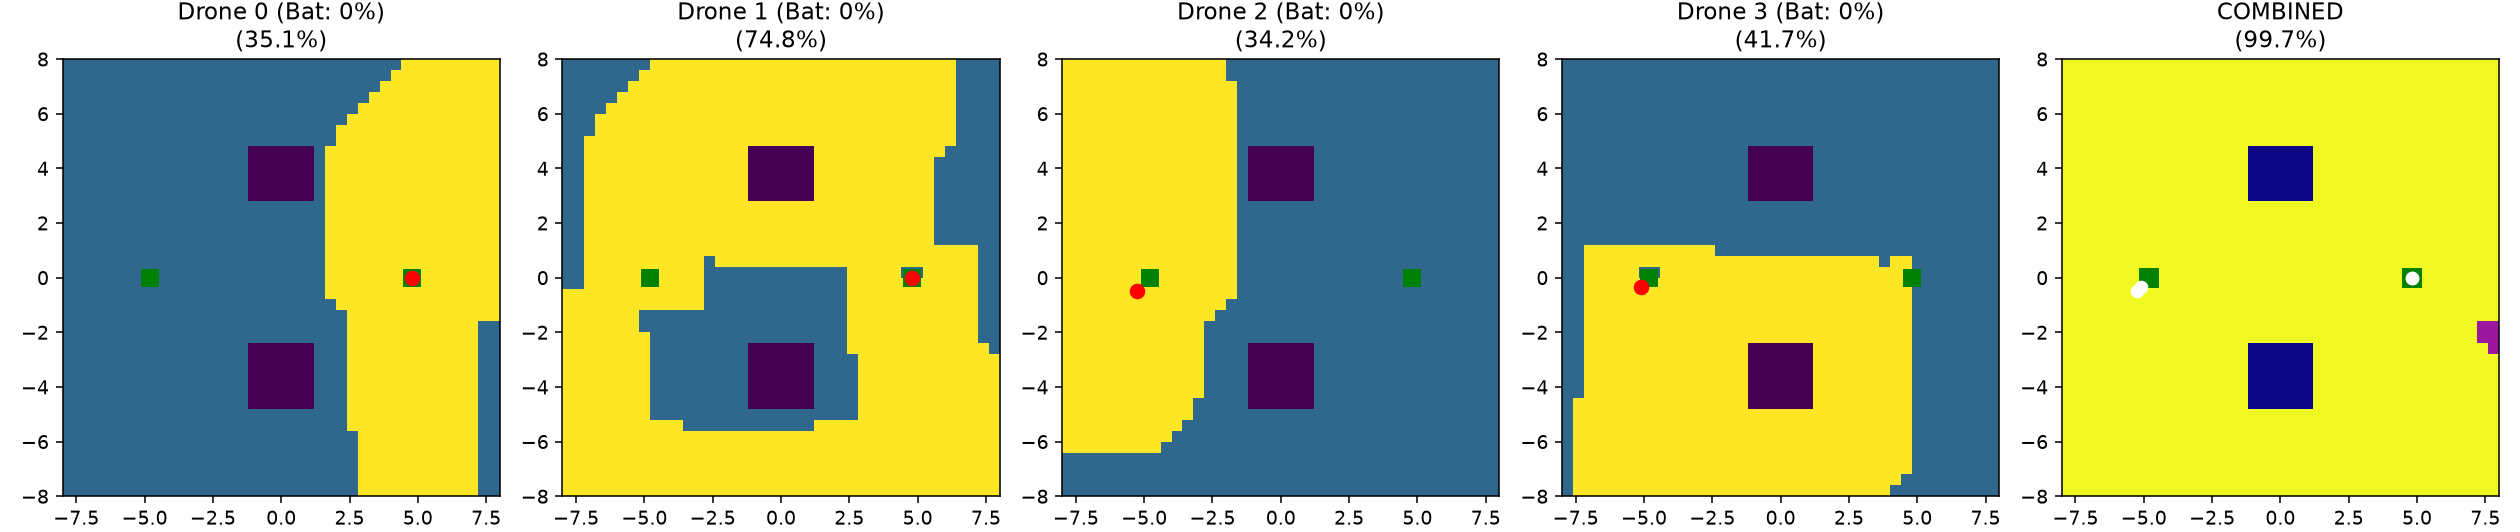
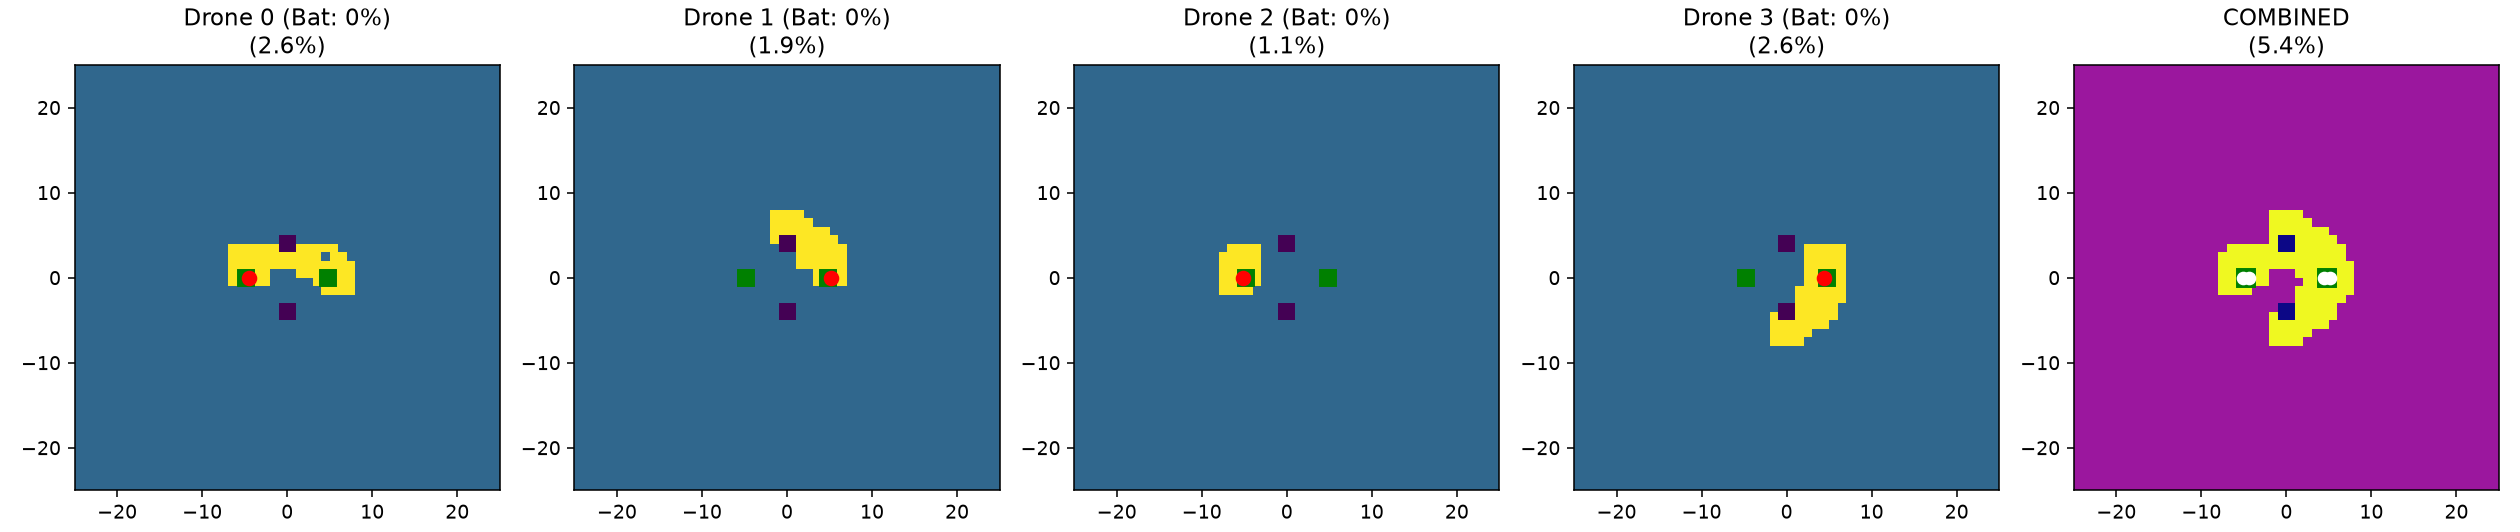
added grid size and resolution flags

diff --git a/src/sim_core.py b/src/sim_core.py
@@ -63,8 +63,9 @@ class CoverageGrid:
     """Discretized ground map tracking coverage, uncertainty beliefs, and stations."""
 
     num_drones: int
-    size: float = 16.0
-    resolution: int = 40
+    size: float
+    resolution: int
+
 
     def __post_init__(self):
         half = self.size * 0.5
@@ -314,6 +315,9 @@ class SwarmMetricsTracker:
             "algorithm": algo_name,
             "scenario": scenario,
             "num_drones": len(drones),
+            "grid_size_m": grid.size,
+            "grid_resolution": grid.resolution,
+            "num_charging_stations": int(len(grid.charging_stations)),
             "coverage_time_metrics": {
                 "final_coverage_pct": round(grid.combined_coverage_pct, 2),
                 "total_steps_run": total_steps,
@@ -338,6 +342,10 @@ class SwarmMetricsTracker:
         print("\n" + "=" * 64)
         print(
             f"PERFORMANCE METRICS | Algo: {algo_name.upper()} | Scenario: {scenario.upper()}"
+        )
+        print(
+            f"   Grid {grid.size:.1f} m, {grid.resolution}x{grid.resolution} cells"
+            f" | Charging stations: {len(grid.charging_stations)}"
         )
         print("-" * 64)
         print("1. COVERAGE TIME:")
@@ -526,21 +534,85 @@ class MultiDroneSlamExtractor:
         self.depth_renderer.close()
 
 
+def place_charging_stations(
+    num_stations: int, arena_size: float, pad_radius: float = 0.85
+) -> np.ndarray:
+    """
+    Places charging pads along the open east-west line.
+
+    Two pads on a 16 m arena sit at (-4.8, 0) and (4.8, 0). Extra pads spread
+    between those ends, and the span grows when the arena is larger or the
+    pads would otherwise overlap.
+    """
+    if num_stations < 0:
+        raise ValueError(f"num_stations must be >= 0, got {num_stations}")
+    if num_stations == 0:
+        return np.empty((0, 2), dtype=np.float64)
+
+    half = arena_size * 0.5
+    margin = pad_radius + 0.35
+    max_reach = half - margin
+    if max_reach <= 0.0:
+        raise ValueError(
+            f"arena size {arena_size} m is too small for a charging pad "
+            f"(need more than {2.0 * margin:.1f} m)"
+        )
+
+    if num_stations == 1:
+        return np.array([[0.0, 0.0]], dtype=np.float64)
+
+    min_spacing = 2.0 * pad_radius + 0.3
+    default_reach = arena_size * 0.3
+    needed_reach = min_spacing * (num_stations - 1) / 2.0
+    reach = min(max(default_reach, needed_reach), max_reach)
+    spacing = (2.0 * reach) / (num_stations - 1)
+    if spacing + 1e-6 < min_spacing:
+        raise ValueError(
+            f"{num_stations} charging stations do not fit in a {arena_size:.1f} m arena "
+            f"(spacing would be {spacing:.2f} m, need {min_spacing:.2f} m). "
+            "Increase --grid-size or lower --stations."
+        )
+
+    xs = np.linspace(-reach, reach, num_stations)
+    return np.column_stack([xs, np.zeros(num_stations)]).astype(np.float64)
+
+
+def _charging_pad_geoms(stations: np.ndarray) -> str:
+    """Visual-only pad cylinders. contype=0 so they do not block landings."""
+    geoms = []
+    for i, (x, y) in enumerate(stations):
+        geoms.append(
+            f'<geom name="pad_{i}_outer" type="cylinder" pos="{x:.3f} {y:.3f} 0.01" '
+            f'size="0.90 0.01" rgba="0.1 0.95 0.45 0.85" contype="0" conaffinity="0"/>'
+            f'<geom name="pad_{i}_inner" type="cylinder" pos="{x:.3f} {y:.3f} 0.015" '
+            f'size="0.45 0.01" rgba="0.9 1.0 0.95 0.95" contype="0" conaffinity="0"/>'
+        )
+    return "".join(geoms)
+
+
 def build_swarm_xml(
     num_drones: int,
     cam_spec: CameraSpec,
     scenario: str = "urban",
     custom_mesh_path: Optional[str] = None,
     arena_size: float = 16.0,
+    num_stations: Optional[int] = None,
 ) -> Tuple[str, np.ndarray]:
     """
     Generates the MuJoCo MJCF XML model and returns `(xml_str, charging_stations_xy)`.
-    In the `charging` scenario, two glowing ground charging pads are placed at
-    `(-4.8, 0.0)` and `(4.8, 0.0)` alongside two obstacles.
+
+    `num_stations` defaults to 2 in the charging scenario and 0 otherwise.
+    Pads are spaced along y = 0. The charging scenario also keeps its two
+    obstacles, scaled with `arena_size` so a 16 m arena matches the original map.
     """
+    if arena_size <= 0.0:
+        raise ValueError(f"arena_size must be positive, got {arena_size}")
+    if num_stations is None:
+        num_stations = 2 if scenario == "charging" else 0
+
     half = arena_size * 0.5
     assets, obstacles = "", ""
-    stations = np.empty((0, 2), dtype=np.float64)
+    stations = place_charging_stations(num_stations, arena_size)
 
     if scenario == "urban":
         obstacles = """
@@ -712,6 +784,8 @@ def run_simulation(
     scenario: str = "flat",
     custom_mesh: Optional[str] = None,
     num_drones: int = 4,
+    size: Optional[float] = 16.0,
+    resolution: Optional[int] = 40,
     max_steps: int = 2500,
     show_assignment: bool = True,
     save_slam_data: bool = False,
@@ -734,7 +808,7 @@ def run_simulation(
         for i in range(num_drones)
     ]
 
-    grid = CoverageGrid(num_drones=num_drones)
+    grid = CoverageGrid(num_drones=num_drones, size=size, resolution=resolution)
     grid.charging_stations = stations
     grid.mark_obstacles(model, data)
 

diff --git a/src/algorithms.py b/src/algorithms.py
@@ -268,3 +268,43 @@ def battery_aware_patrol(
 
     best_xy = apply_obstacle_clearance(cands[int(np.argmax(score))], grid)
     return np.array([float(best_xy[0]), float(best_xy[1]), 2.4])
+
+
+@register_algorithm("charge_test")
+def charge_shuttle(
+    ego: DroneState, _peers: List[DroneState], grid: CoverageGrid
+) -> np.ndarray:
+    """
+    Shuttle that only exercises the charging pads.
+
+    Each drone is pinned to one station (drone id modulo the number of pads)
+    and a landing spot inside that pad, so several drones can dock without
+    stacking on the same point. It cruises a few meters off the pad at
+    altitude until the battery falls to 60%, then lands and stays docked
+    until the battery reaches 98%.
+    """
+    if len(grid.charging_stations) == 0:
+        return np.array([float(ego.pos[0]), float(ego.pos[1]), 2.4])
+
+    n_pads = len(grid.charging_stations)
+    pad = grid.charging_stations[ego.id % n_pads]
+    # Keep shared-pad landings inside pad_radius (0.85 m).
+    offsets = np.array(
+        [[0.35, 0.0], [-0.35, 0.0], [0.0, 0.35], [0.0, -0.35]],
+        dtype=np.float64,
+    )
+    offset = offsets[(ego.id // n_pads) % len(offsets)]
+    landing_xy = pad + offset
+    cruise_xy = pad + np.array([0.0, 2.5]) + offset
+
+    low_thresh, resume_thresh = 60.0, 98.0
+    needs_charge = (ego.battery <= low_thresh) or (
+        ego.is_charging and ego.battery < resume_thresh
+    )
+    if needs_charge:
+        horiz = float(np.linalg.norm(landing_xy - ego.pos[:2]))
+        # Descend only once aligned so z <= 0.45 m can start charging.
+        target_z = 0.20 if horiz < 0.6 else 2.4
+        return np.array([float(landing_xy[0]), float(landing_xy[1]), target_z])
+
+    return np.array([float(cruise_xy[0]), float(cruise_xy[1]), 2.4])

diff --git a/src/run_swarm.py b/src/run_swarm.py
@@ -23,6 +23,8 @@ if __name__ == "__main__":
     )
     parser.add_argument("--mesh-file", type=str, default=None)
     parser.add_argument("--drones", type=int, default=4)
+    parser.add_argument("--grid-size", type=float, default=16)
+    parser.add_argument("--grid-resolution", type=int, default=40)
     parser.add_argument("--steps", type=int, default=2500)
     args = parser.parse_args()
 
@@ -34,5 +36,7 @@ if __name__ == "__main__":
         scenario=args.scenario,
         custom_mesh=args.mesh_file,
         num_drones=args.drones,
+        size=args.grid_size,
+        resolution=args.grid_resolution,
         max_steps=args.steps,
     )

diff --git a/README.md b/README.md
@@ -31,7 +31,7 @@ docker run --rm -it --gpus all `
   -e MUJOCO_GL=egl `
   -v "${PWD}:/workspace" `
   drone-swarm-mujoco `
-  python src/run_swarm.py --mode headless --scenario charging --algo battery_patrol --steps 1500
+  python src/run_swarm.py --mode headless --scenario charging --algo charge_test --steps 1500
 ```
 
 ### RL
@@ -78,8 +78,8 @@ docker run --rm -it --gpus all `
 
 - Non fare la media MEAN tra le mappe di incertezza, ma dare priorità alla certezza MAX dei droni
 - FINIRE AREA COVERAGE
+- IMPLEMENTARE STRATEGIA ERGODIC
 - IMPLEMENTARE RL
-- DOPO CON STRATEGIA ERGODIC
 
 ## INFO
 
